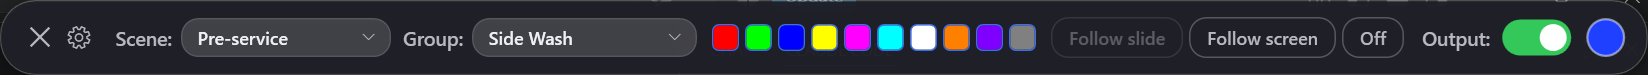
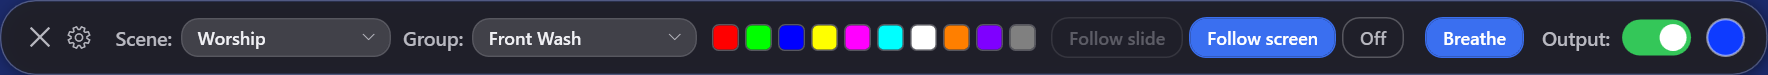
Keep breathing when a scene is edited; refresh screenshots; bump to 1.3.1
The scene editor rebuilds each SceneGroupState from its row controls, and those
had no pulse field, so Pulse fell back to "off" every time. Selecting a
different scene is enough to trigger it — SceneList_SelectionChanged commits
the outgoing one — so any scene captured with a group breathing lost that as
soon as the editor was opened and saved.

Each row now carries a Breathe tick, which both fixes the round-trip and makes
the scene editor the place you'd expect to set "Worship breathes, Message
doesn't" without having to stage the look live first. Depth is deliberately not
editable here: how deep a group breathes is a property of the rig, so it stays
in Lights & groups and is carried through untouched.

Screenshots regenerated for the pill's Breathe button, the three-column
settings window, the group editor's music controls, and the scene editor.

Changed region(s): [[0.0, 0.0, 1.0, 1.0]]

diff --git a/SlideColours/SceneWindow.xaml.cs b/SlideColours/SceneWindow.xaml.cs
@@ -4,6 +4,7 @@ using System.Windows.Media;
 using SlideColours.Models;
 using SlideColours.Services;
 using WpfButton = System.Windows.Controls.Button;
+using WpfCheckBox = System.Windows.Controls.CheckBox;
 using WpfColor = System.Windows.Media.Color;
 using WpfColorConverter = System.Windows.Media.ColorConverter;
 using WpfComboBox = System.Windows.Controls.ComboBox;
@@ -21,13 +22,23 @@ public partial class SceneWindow : Window
     private readonly LightingEngine _engine;
     private readonly List<Scene> _scenes;
 
-    /// <summary>One editable row: the group, the source picked for it, and its manual colour.</summary>
+    /// <summary>
+    /// One editable row: the group, the source picked for it, its manual colour, and whether it
+    /// breathes with the music.
+    /// </summary>
     private sealed class GroupRow
     {
         public required string GroupId { get; init; }
         public required WpfComboBox SourceBox { get; init; }
         public required WpfButton ColourButton { get; init; }
+        public required WpfCheckBox BreatheCheck { get; init; }
         public WpfColor Colour { get; set; }
+
+        /// <summary>
+        /// Carried through untouched. How deep a group breathes is a property of the rig, edited in
+        /// Lights &amp; groups; a scene only records whether it breathes at all.
+        /// </summary>
+        public int PulseDepthPercent { get; set; } = 40;
     }
 
     private readonly List<GroupRow> _rows = new();
@@ -97,9 +108,12 @@ public partial class SceneWindow : Window
                 var group = _settings.Groups.FirstOrDefault(g => g.Id == row.GroupId);
                 string source = entry?.Source ?? group?.Source ?? ColourSources.Slide;
                 string colour = entry?.ManualColour ?? group?.ManualColour ?? "#FFFFFF";
+                string pulse = entry?.Pulse ?? group?.Pulse ?? PulseModes.Off;
 
                 SelectByTag(row.SourceBox, source);
                 SetRowColour(row, ParseColour(colour));
+                row.BreatheCheck.IsChecked = pulse == PulseModes.Breathe;
+                row.PulseDepthPercent = entry?.PulseDepthPercent ?? group?.PulseDepthPercent ?? 40;
             }
         }
 
@@ -181,6 +195,7 @@ public partial class SceneWindow : Window
             grid.ColumnDefinitions.Add(new ColumnDefinition { Width = new GridLength(150) });
             grid.ColumnDefinitions.Add(new ColumnDefinition { Width = new GridLength(1, GridUnitType.Star) });
             grid.ColumnDefinitions.Add(new ColumnDefinition { Width = new GridLength(96) });
+            grid.ColumnDefinitions.Add(new ColumnDefinition { Width = new GridLength(86) });
 
             var label = new TextBlock
             {
@@ -210,12 +225,32 @@ public partial class SceneWindow : Window
             colourButton.Click += Row_ColourClick;
             Grid.SetColumn(colourButton, 2);
 
+            // Breathing is independent of the source, so it's a tick rather than another entry in
+            // the dropdown — a group can follow the screen and breathe at the same time.
+            var breatheCheck = new WpfCheckBox
+            {
+                Content = "Breathe",
+                Margin = new Thickness(12, 2, 0, 2),
+                VerticalAlignment = VerticalAlignment.Center,
+                ToolTip = "Ride this group's brightness on the music in this scene",
+            };
+            breatheCheck.Checked += Row_BreatheChanged;
+            breatheCheck.Unchecked += Row_BreatheChanged;
+            Grid.SetColumn(breatheCheck, 3);
+
             grid.Children.Add(label);
             grid.Children.Add(sourceBox);
             grid.Children.Add(colourButton);
+            grid.Children.Add(breatheCheck);
             GroupRows.Children.Add(grid);
 
-            var row = new GroupRow { GroupId = group.Id, SourceBox = sourceBox, ColourButton = colourButton };
+            var row = new GroupRow
+            {
+                GroupId = group.Id,
+                SourceBox = sourceBox,
+                ColourButton = colourButton,
+                BreatheCheck = breatheCheck,
+            };
             sourceBox.Tag = row;
             colourButton.Tag = row;
             _rows.Add(row);
@@ -228,6 +263,12 @@ public partial class SceneWindow : Window
             return;
         RefreshRowStates();
         UpdateHint();
+    }
+
+    private void Row_BreatheChanged(object sender, RoutedEventArgs e)
+    {
+        if (!_suspend)
+            UpdateHint();
     }
 
     private void Row_ColourClick(object sender, RoutedEventArgs e)
@@ -274,6 +315,10 @@ public partial class SceneWindow : Window
         if (screen > 0) parts.Add($"{screen} following the screen");
         if (manual > 0) parts.Add($"{manual} on a fixed colour");
         if (off > 0) parts.Add($"{off} off");
+
+        int breathing = _rows.Count(r => r.BreatheCheck.IsChecked == true);
+        if (breathing > 0) parts.Add($"{breathing} breathing with the music");
+
         SceneHintText.Text = string.Join(", ", parts);
     }
 
@@ -320,6 +365,8 @@ public partial class SceneWindow : Window
             GroupId = row.GroupId,
             Source = SelectedTag(row.SourceBox),
             ManualColour = $"#{row.Colour.R:X2}{row.Colour.G:X2}{row.Colour.B:X2}",
+            Pulse = row.BreatheCheck.IsChecked == true ? PulseModes.Breathe : PulseModes.Off,
+            PulseDepthPercent = row.PulseDepthPercent,
         }).ToList();
     }
 

diff --git a/README.md b/README.md
@@ -13,7 +13,7 @@ colour controller when you're not driving it from ProPresenter at all (see
 
 <p align="center">
   <img src="docs/images/pill.png" width="880"
-       alt="The floating Slide Colours pill: close, settings cog, a Scene picker set to Pre-service, a Group picker set to Side Wash, ten favourite-colour swatches, Follow slide, Follow screen and Off buttons, an Output toggle, and the current-colour circle">
+       alt="The floating Slide Colours pill: close, settings cog, a Scene picker set to Worship, a Group picker set to Front Wash, ten favourite-colour swatches, Follow slide, Follow screen and Off buttons, a Breathe button, an Output toggle, and the current-colour circle. Follow screen and Breathe are both highlighted, because breathing layers on top of the colour source rather than replacing it.">
 </p>
 
 ## Download
@@ -191,8 +191,12 @@ From then on, picking that scene from the pill's **Scene** box restores it.
 
 <p align="center">
   <img src="docs/images/scenes.png" width="760"
-       alt="The Scenes editor: a list of scenes named Pre-service, Worship and Message on the left; on the right, what the selected Worship scene sets for each group — Front Wash following the screen and Side Wash holding a blue colour">
+       alt="The Scenes editor: a list of scenes named Pre-service, Worship and Message on the left; on the right, what the selected Worship scene sets for each group — Front Wash following the screen and Side Wash holding a blue colour, both with Breathe ticked">
 </p>
+
+Each row also has a **Breathe** tick, so a scene records which groups react to the music as well as
+where their colour comes from. That's what makes "Worship breathes, Message doesn't" a single click
+each rather than something to remember to switch by hand.
 
 **A scene is a snapshot, not a live link.** Changing a colour mid-service edits the *group*, never
 the scene — so what a scene restores is the look you deliberately saved, not whatever last Sunday
@@ -237,7 +241,7 @@ Click the **cog** → **Settings…**
 
 <p align="center">
   <img src="docs/images/settings.png" width="760"
-       alt="The Slide Colours Settings window in two columns: ProPresenter connection, DMX output, lights/groups/scenes, screen capture and remote control on the left; colour behaviour, updates, startup options and the settings file on the right">
+       alt="The Slide Colours Settings window in three columns: ProPresenter connection, screen capture and music reaction on the left; DMX output, lights/groups/scenes, colour behaviour and startup in the middle; remote control, updates and the settings file on the right">
 </p>
 
 | Setting | Notes |
@@ -277,7 +281,7 @@ group.
 
 <p align="center">
   <img src="docs/images/lights-groups.png" width="760"
-       alt="The Lights and groups editor: five named lights with their DMX channels on the left, groups on the right with a source picker and tick boxes choosing which lights belong to the selected group">
+       alt="The Lights and groups editor: five named lights with their DMX channels on the left, groups on the right with a source picker, a &quot;With the music&quot; picker set to breathe, a depth slider, and tick boxes choosing which lights belong to the selected group">
 </p>
 
 For example:
